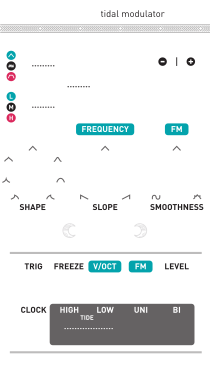
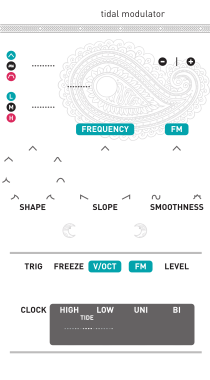
Clean up Sheep

diff --git a/src/Sheep.cpp b/src/Sheep.cpp
@@ -7,34 +7,34 @@
 
 struct Sheep : Module {
 	enum ParamIds {
-		MODE_PARAM,
+		BANK_PARAM,
 		RANGE_PARAM,
 
 		FREQUENCY_PARAM,
 		FM_PARAM,
 
-		SHAPE_PARAM,
-		SLOPE_PARAM,
+		ROW_PARAM,
+		COLUMN_PARAM,
 		SMOOTHNESS_PARAM,
 		NUM_PARAMS
 	};
 	enum InputIds {
-		SHAPE_INPUT,
-		SLOPE_INPUT,
+		ROW_INPUT,
+		COLUMN_INPUT,
 		SMOOTHNESS_INPUT,
 
-		TRIG_INPUT,
+		SYNC_INPUT,
 		FREEZE_INPUT,
 		PITCH_INPUT,
 		FM_INPUT,
 		LEVEL_INPUT,
 
-		CLOCK_INPUT,
+		BANK_INPUT,
 		NUM_INPUTS
 	};
 	enum OutputIds {
-		HIGH_OUTPUT,
-		LOW_OUTPUT,
+		BIT_OUTPUT,
+		SUB_OUTPUT,
 		UNI_OUTPUT,
 		BI_OUTPUT,
 		NUM_OUTPUTS
@@ -53,16 +53,16 @@ struct Sheep : Module {
 	json_t *toJson() {
 		json_t *rootJ = json_object();
 
-		json_object_set_new(rootJ, "mode", json_integer((int) generator.mode()));
+		json_object_set_new(rootJ, "bank", json_integer((int) generator.mode()));
 		json_object_set_new(rootJ, "range", json_integer((int) generator.range()));
 
 		return rootJ;
 	}
 
 	void fromJson(json_t *rootJ) {
-		json_t *modeJ = json_object_get(rootJ, "mode");
-		if (modeJ) {
-			generator.set_mode((tides::GeneratorMode) json_integer_value(modeJ));
+		json_t *bankJ = json_object_get(rootJ, "bank");
+		if (bankJ) {
+			generator.set_mode((tides::GeneratorMode) json_integer_value(bankJ));
 		}
 
 		json_t *rangeJ = json_object_get(rootJ, "range");
@@ -95,9 +95,8 @@ Sheep::Sheep() {
 }
 
 void Sheep::step() {
-	// TODO Save / load the state of MODE and RANGE to JSON
 	tides::GeneratorMode mode = generator.mode();
-	if (modeTrigger.process(params[MODE_PARAM])) {
+	if (modeTrigger.process(params[BANK_PARAM])) {
 		mode = (tides::GeneratorMode) (((int)mode - 1 + 3) % 3);
 		generator.set_mode(mode);
 	}
@@ -124,8 +123,8 @@ void Sheep::step() {
 		generator.set_pitch(clampf(pitch * 0x80, -0x8000, 0x7fff));
 
 		// Slope, smoothness, pitch
-		int16_t shape = clampf(params[SHAPE_PARAM] + getf(inputs[SHAPE_INPUT]) / 5.0, -1.0, 1.0) * 0x7fff;
-		int16_t slope = clampf(params[SLOPE_PARAM] + getf(inputs[SLOPE_INPUT]) / 5.0, -1.0, 1.0) * 0x7fff;
+		int16_t shape = clampf(params[ROW_PARAM] + getf(inputs[ROW_INPUT]) / 5.0, -1.0, 1.0) * 0x7fff;
+		int16_t slope = clampf(params[COLUMN_PARAM] + getf(inputs[COLUMN_INPUT]) / 5.0, -1.0, 1.0) * 0x7fff;
 		int16_t smoothness = clampf(params[SMOOTHNESS_PARAM] + getf(inputs[SMOOTHNESS_INPUT]) / 5.0, -1.0, 1.0) * 0x7fff;
 		generator.set_shape(shape);
 		generator.set_slope(slope);
@@ -134,7 +133,7 @@ void Sheep::step() {
 		// Sync
 		// Slight deviation from spec here.
 		// Instead of toggling sync by holding the range button, just enable it if the clock port is plugged in.
-		generator.set_sync(inputs[CLOCK_INPUT]);
+		generator.set_sync(inputs[BANK_INPUT]);
 
 		// Generator
 		generator.Process();
@@ -148,9 +147,9 @@ void Sheep::step() {
 	uint8_t gate = 0;
 	if (getf(inputs[FREEZE_INPUT]) >= 0.7)
 		gate |= tides::CONTROL_FREEZE;
-	if (getf(inputs[TRIG_INPUT]) >= 0.7)
+	if (getf(inputs[SYNC_INPUT]) >= 0.7)
 		gate |= tides::CONTROL_GATE;
-	if (getf(inputs[CLOCK_INPUT]) >= 0.7)
+	if (getf(inputs[BANK_INPUT]) >= 0.7)
 		gate |= tides::CONTROL_CLOCK;
 	if (!(lastGate & tides::CONTROL_CLOCK) && (gate & tides::CONTROL_CLOCK))
 		gate |= tides::CONTROL_GATE_RISING;
@@ -169,8 +168,8 @@ void Sheep::step() {
 	float unif = rescalef(uni, 0, 0xffff, 0.0, 8.0);
 	float bif = rescalef(bi, -0x8000, 0x7fff, -5.0, 5.0);
 
-	setf(outputs[HIGH_OUTPUT], sample.flags & tides::FLAG_END_OF_ATTACK ? 0.0 : 5.0);
-	setf(outputs[LOW_OUTPUT], sample.flags & tides::FLAG_END_OF_RELEASE ? 0.0 : 5.0);
+	setf(outputs[BIT_OUTPUT], sample.flags & tides::FLAG_END_OF_ATTACK ? 0.0 : 5.0);
+	setf(outputs[SUB_OUTPUT], sample.flags & tides::FLAG_END_OF_RELEASE ? 0.0 : 5.0);
 	setf(outputs[UNI_OUTPUT], unif);
 	setf(outputs[BI_OUTPUT], bif);
 
@@ -194,7 +193,7 @@ SheepWidget::SheepWidget() {
 
 	{
 		Panel *panel = new LightPanel();
-		panel->backgroundImage = Image::load("plugins/AudibleInstruments/res/Tides.png");
+		panel->backgroundImage = Image::load("plugins/AudibleInstruments/res/Sheep.png");
 		panel->box.size = box.size;
 		addChild(panel);
 	}
@@ -204,29 +203,29 @@ SheepWidget::SheepWidget() {
 	addChild(createScrew<ScrewSilver>(Vec(15, 365)));
 	addChild(createScrew<ScrewSilver>(Vec(180, 365)));
 
-	addParam(createParam<CKD6>(Vec(19, 52), module, Sheep::MODE_PARAM, 0.0, 1.0, 0.0));
+	addParam(createParam<CKD6>(Vec(19, 52), module, Sheep::BANK_PARAM, 0.0, 1.0, 0.0));
 	addParam(createParam<CKD6>(Vec(19, 93), module, Sheep::RANGE_PARAM, 0.0, 1.0, 0.0));
 
 	addParam(createParam<Rogan3PSGreen>(Vec(79, 60), module, Sheep::FREQUENCY_PARAM, -48.0, 48.0, 0.0));
 	addParam(createParam<Rogan1PSGreen>(Vec(156, 66), module, Sheep::FM_PARAM, -12.0, 12.0, 0.0));
 
-	addParam(createParam<Rogan1PSWhite>(Vec(13, 155), module, Sheep::SHAPE_PARAM, -1.0, 1.0, 0.0));
-	addParam(createParam<Rogan1PSWhite>(Vec(85, 155), module, Sheep::SLOPE_PARAM, -1.0, 1.0, 0.0));
+	addParam(createParam<Rogan1PSWhite>(Vec(13, 155), module, Sheep::ROW_PARAM, -1.0, 1.0, 0.0));
+	addParam(createParam<Rogan1PSWhite>(Vec(85, 155), module, Sheep::COLUMN_PARAM, -1.0, 1.0, 0.0));
 	addParam(createParam<Rogan1PSWhite>(Vec(156, 155), module, Sheep::SMOOTHNESS_PARAM, -1.0, 1.0, 0.0));
 
-	addInput(createInput<PJ3410Port>(Vec(18, 216), module, Sheep::SHAPE_INPUT));
-	addInput(createInput<PJ3410Port>(Vec(90, 216), module, Sheep::SLOPE_INPUT));
+	addInput(createInput<PJ3410Port>(Vec(18, 216), module, Sheep::ROW_INPUT));
+	addInput(createInput<PJ3410Port>(Vec(90, 216), module, Sheep::COLUMN_INPUT));
 	addInput(createInput<PJ3410Port>(Vec(161, 216), module, Sheep::SMOOTHNESS_INPUT));
 
-	addInput(createInput<PJ3410Port>(Vec(18, 271), module, Sheep::TRIG_INPUT));
+	addInput(createInput<PJ3410Port>(Vec(18, 271), module, Sheep::SYNC_INPUT));
 	addInput(createInput<PJ3410Port>(Vec(54, 271), module, Sheep::FREEZE_INPUT));
 	addInput(createInput<PJ3410Port>(Vec(90, 271), module, Sheep::PITCH_INPUT));
 	addInput(createInput<PJ3410Port>(Vec(125, 271), module, Sheep::FM_INPUT));
 	addInput(createInput<PJ3410Port>(Vec(161, 271), module, Sheep::LEVEL_INPUT));
 
-	addInput(createInput<PJ3410Port>(Vec(18, 313), module, Sheep::CLOCK_INPUT));
-	addOutput(createOutput<PJ3410Port>(Vec(54, 313), module, Sheep::HIGH_OUTPUT));
-	addOutput(createOutput<PJ3410Port>(Vec(90, 313), module, Sheep::LOW_OUTPUT));
+	addInput(createInput<PJ3410Port>(Vec(18, 313), module, Sheep::BANK_INPUT));
+	addOutput(createOutput<PJ3410Port>(Vec(54, 313), module, Sheep::BIT_OUTPUT));
+	addOutput(createOutput<PJ3410Port>(Vec(90, 313), module, Sheep::SUB_OUTPUT));
 	addOutput(createOutput<PJ3410Port>(Vec(125, 313), module, Sheep::UNI_OUTPUT));
 	addOutput(createOutput<PJ3410Port>(Vec(161, 313), module, Sheep::BI_OUTPUT));
 

diff --git a/src/AudibleInstruments.cpp b/src/AudibleInstruments.cpp
@@ -1,17 +1,6 @@
 #include "AudibleInstruments.hpp"
 
 
-// void ModeLight::step() {
-// 	int mode = (int) roundf(getf(value));
-// 	switch (mode) {
-// 		case 0: color = nvgHSL(0.36, 0.7, 0.7); break;
-// 		case 1: color = nvgHSL(0.18, 0.7, 0.7); break;
-// 		case 2: color = nvgHSL(0.0, 0.7, 0.7); break;
-// 		default: color = nvgRGBAf(0.0, 0.0, 0.0, 0.0); break;
-// 	}
-// }
-
-
 struct AudibleInstrumentsPlugin : Plugin {
 	AudibleInstrumentsPlugin() {
 		slug = "AudibleInstruments";
@@ -19,7 +8,7 @@ struct AudibleInstrumentsPlugin : Plugin {
 		createModel<BraidsWidget>(this, "Braids", "Macro Oscillator");
 		createModel<ElementsWidget>(this, "Elements", "Modal Synthesizer");
 		createModel<TidesWidget>(this, "Tides", "Tidal Modulator");
-		// createModel<SheepWidget>(this, "Sheep", "Wavetable Oscillator");
+		createModel<SheepWidget>(this, "Sheep", "Wavetable Oscillator");
 		// createModel<StreamsWidget>(this, "Streams", "Dual Dynamics Gate");
 		createModel<CloudsWidget>(this, "Clouds", "Texture Synthesizer");
 		createModel<WarpsWidget>(this, "Warps", "Meta Modulator");

diff --git a/src/Tides.cpp b/src/Tides.cpp
@@ -93,7 +93,6 @@ Tides::Tides() {
 }
 
 void Tides::step() {
-	// TODO Save / load the state of MODE and RANGE to JSON
 	tides::GeneratorMode mode = generator.mode();
 	if (modeTrigger.process(params[MODE_PARAM])) {
 		mode = (tides::GeneratorMode) (((int)mode - 1 + 3) % 3);
